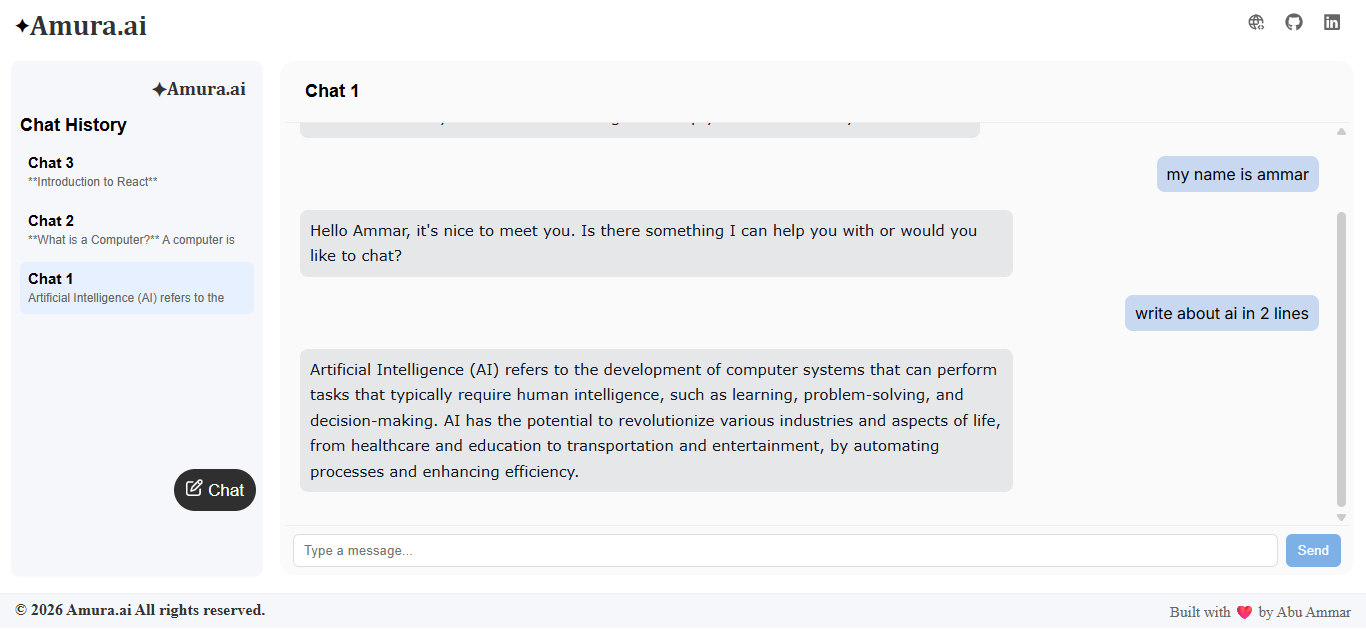
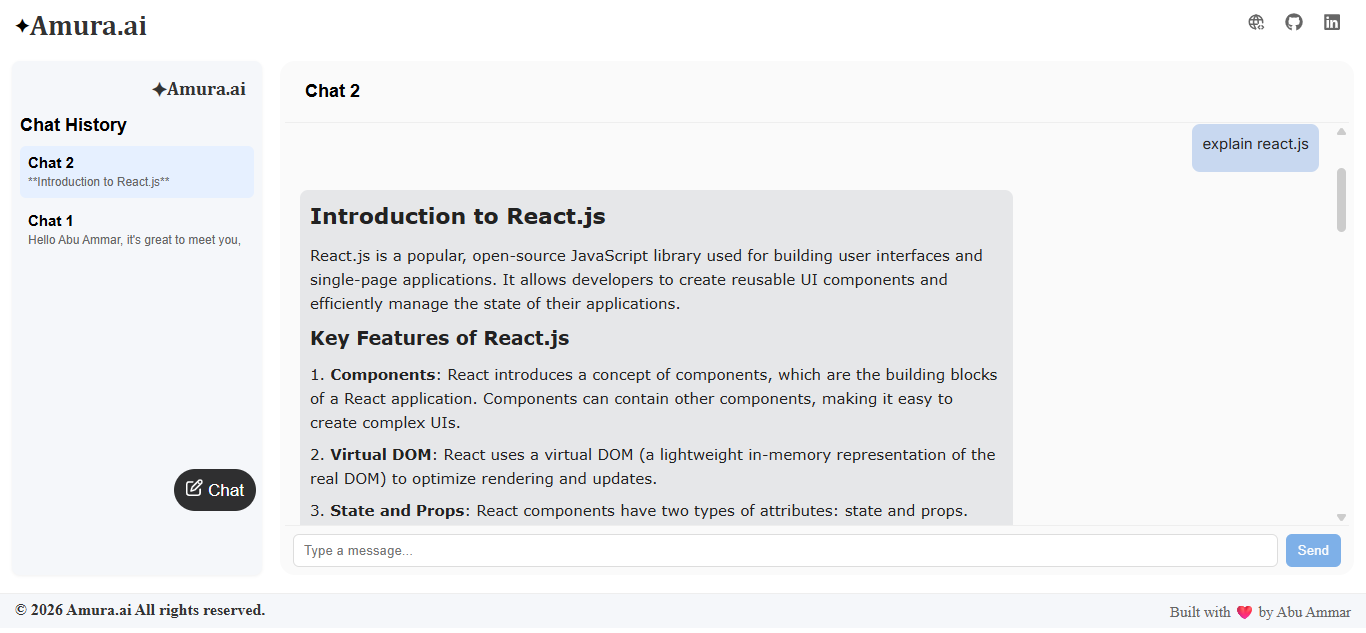
Updated Projects Images

diff --git a/src/components/Projects/Projects.jsx b/src/components/Projects/Projects.jsx
@@ -31,8 +31,8 @@ const Projects = () => {
             id: 3, 
             image: bazaar, 
             title: "Bazaar - E-Commerce Platform",
-            description : "React-based e-commerce application with a responsive Tailwind CSS UI and dynamic product rendering via REST API integration. Focused on performance, scalability, and clean component architecture.",
-            tech: ["React.js", 'TailwindCSS', 'REST API', 'Responsive Design'],
+            description : "A full-stack e-commerce platform built with React.js, Tailwind CSS, Node.js, Express.js, and MongoDB. Features dynamic product browsing, search and filtering, product details, cart management, responsive UI, and REST API integration with a MongoDB-backed product database. Built with reusable components and a clean frontend-backend architecture.",
+            tech: ["React.js", 'TailwindCSS', 'Node.js', 'Express.js', 'MongoDB', 'REST API', 'Responsive Design'],
             gitHub: "https://github.com/abuammar003/e-commerce.app",
             live: "https://bazaar-store.netlify.app/"
         },
